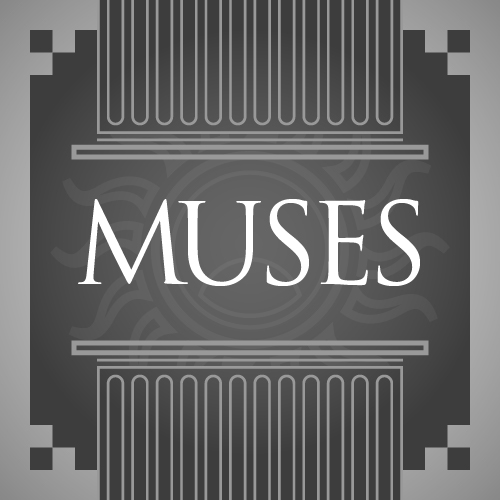
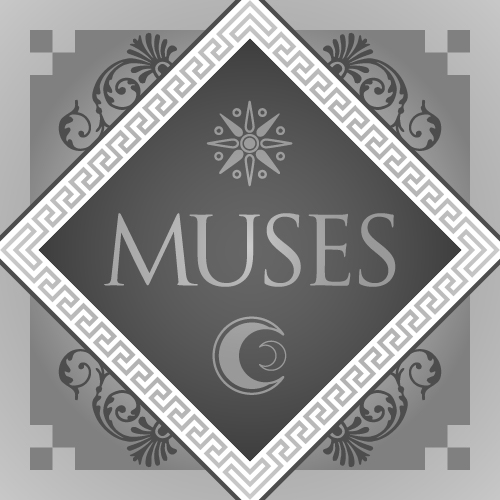
Make Muses announcement

diff --git a/css/eye4styles.css b/css/eye4styles.css
@@ -49,7 +49,18 @@ body {
   font-family: 'IBM Plex Sans', sans-serif;
   text-rendering: optimizeLegibility; }
 
-.headerWrap, .gameShowcaseWrapper, .announcementWrap, .newsletterWrap, .inDevelopmentWrap, .inTheLabWrap, .aboutWrap, .devShowcaseWrap, .textShowcaseWrap, .videoShowcaseWrap, .labsIntroWrap, .labsShowcaseWrap {
+.sr-only {
+  position: absolute;
+  width: 1px;
+  height: 1px;
+  padding: 0;
+  margin: -1px;
+  overflow: hidden;
+  clip: rect(0, 0, 0, 0);
+  white-space: nowrap;
+  border: 0; }
+
+.headerWrap, .gameShowcaseWrapper, .announcementWrap, .newsletterWrap, .inDevelopmentWrap, .inTheLabWrap, .aboutWrap, .devShowcaseWrap, .textShowcaseWrap, .videoShowcaseWrap, .breadcrumbWrap, .boxShowcaseWrap, .boxExtrasWrap, .labsIntroWrap, .labsShowcaseWrap {
   display: grid;
   margin: 0 auto;
   max-width: 1160px; }
@@ -68,6 +79,9 @@ body {
 
 .button + .button {
   margin-left: 10px; }
+
+p .button {
+  font-size: 1em; }
 
 .buyButton {
   background-color: white;
@@ -130,6 +144,12 @@ time {
   display: block;
   font-size: 1.6em;
   margin-bottom: .5em; }
+
+.textOnly p {
+  font-size: 1.8em;
+  line-height: 1.7em; }
+  .textOnly p + p {
+    margin-bottom: 30px; }
 
 .header {
   padding: 0 25px;
@@ -215,7 +235,7 @@ time {
   /* display submenu on click */
   .menuIcon + input[type=checkbox]:checked + ol {
     display: block;
-    height: 26em;
+    height: 31em;
     overflow: auto;
     transition: height ease-in-out 300ms; }
   .navList {
@@ -587,6 +607,88 @@ time {
   #filter-by input[type="checkbox"] {
     position: absolute;
     margin-left: -25px; }
+
+.boxShowcase {
+  background-color: #252529;
+  padding: 25px 50px 30px; }
+
+.boxExtras {
+  background-color: #1A1A1A;
+  padding: 25px 50px 30px; }
+
+.breadcrumbs li {
+  color: #BCCAD0;
+  display: inline; }
+  .breadcrumbs li a {
+    color: #29ABE2;
+    text-decoration: none; }
+  .breadcrumbs li + li::before {
+    color: #495252;
+    content: '>';
+    padding: 0 5px; }
+
+.boxShowcaseWrap, .boxExtrasWrap {
+  grid-template-columns: 4fr 1fr 4fr;
+  grid-column-gap: 30px;
+  grid-template-areas: 'main . aside'; }
+  .boxShowcaseWrap main, .boxExtrasWrap main {
+    grid-area: main; }
+  .boxShowcaseWrap aside, .boxExtrasWrap aside {
+    grid-area: aside; }
+
+.boxName {
+  width: 100%;
+  height: auto;
+  fill: white;
+  margin: 30px 0 25px; }
+  .boxName.alaka {
+    fill: green; }
+  .boxName.clair {
+    fill: purple; }
+
+.boxShowcase .gameDetails {
+  margin-bottom: 10px; }
+  .boxShowcase .gameDetails li {
+    display: inline; }
+    .boxShowcase .gameDetails li + li {
+      margin-left: 15px; }
+  .boxShowcase .gameDetails::after {
+    content: '';
+    display: block;
+    border-bottom: 3px solid #495252;
+    margin: 15px 0 25px;
+    height: 3px;
+    width: 100px; }
+
+.boxDetails {
+  position: sticky;
+  text-align: center;
+  top: 20px; }
+
+.boxImg, .extraImg {
+  align-content: center; }
+
+.boxImg {
+  padding-bottom: 30px;
+  margin-bottom: 15px; }
+  .boxImg img {
+    border-radius: 5px;
+    box-shadow: 15px 15px 10px #1A1A1A;
+    max-height: 400px; }
+
+.boxPrice {
+  align-items: center;
+  border-top: 1px solid #495252;
+  display: grid;
+  grid-gap: 20px;
+  grid-template-columns: repeat(2, 1fr);
+  padding-top: 30px; }
+  .boxPrice p {
+    text-align: left; }
+  .boxPrice .buyButton {
+    border-radius: 3px;
+    font-size: 2.4em;
+    padding: 10px 8px; }
 
 .labsIntro {
   background-color: #1A1A1A;

diff --git a/index.html b/index.html
@@ -100,6 +100,7 @@
                             <li class="navLink"><a href="/">Home</a></li>
                             <li class="navLink"><a href="/updates">Newsletter</a></li>
                             <li class="navLink"><a href="/labs">Labs</a></li>
+                            <li class="navLink"><a href="/videos">Videos</a></li>
                             <!--<li><a class="external" href="#">Podcast</a> </li>-->
                             <li class="navLink"><a class="external" href="http://eye4games.tumblr.com/">Blog</a></li>
                             <li class="navLink"><a class="external" href="https://gumroad.com/eye4games">Store</a></li>
@@ -163,16 +164,6 @@
             
         </div><!-- gameShowcase-wrapper -->
     </section>
-    
-    
-    <section class="announcement">
-    	<div class="announcementWrap">
-        	<h2>AwSHUX Convention Appearance</h2>
-        	<h3>October 16–18 | Online</h3>
-            <p>As with many things this year, even the conventions are online now! <a href="https://www.awshux.show/hall5#eye4games">Catch us at AwSHUX</a>, and play demos with us <a href="https://tabletopia.com/games/defense-force-ultra">on Tabletopia</a> where we're showcasing <em>Defense Force Ultra</em>.</p>
-    	</div>
-    </section>
-    
         
     <section class="newsletter">
         <div class="newsletterWrap">
@@ -187,21 +178,21 @@
            
            <div class="textSummary">
                <h2>Latest Free Game</h2>
-                <p>Spring has come according to the calendar, and we've got an Eye4Labs release for you. You can now play <em>Concrete Jungle</em>, where you can experience the thrills of business, animals, and business animals in an RPG perfect for one-shots and short adventures.</p>
-                <p>You can download our fourth release <a href="https://gumroad.com/l/concrete-labs" target="_blank">on Gumroad</a> for free (or whatever you want to pay).</p>
+                <p>Our gift to you this Winter is now available, <em>Muses</em>, and we hope you try it and <a href="https://forms.gle/fQ6webEpdwoUodQj9">send us feedback</a> on your experience.</p>
+                <p>You can download our fifth release <a href="https://gumroad.com/l/muses-labs" target="_blank">on Gumroad</a> for free (or whatever you want to pay).</p>
                 <p><a href="/labs">See All the Labs Releases »</a></p>
            </div>
            <!-- textSummary -->
            <div class="devTileMini oneFourth">
-               <div class="devProgress midProgress">
-                    <img src="images/dev-tile-muses.jpg" alt="" />
+               <div class="devProgress minProgress">
+                    <img src="images/dev-tile-abiogenesis.jpg" alt="" />
                     <span class="statusBadge">In Progress</span>
                </div><!-- devProgress -->
            </div><!-- devTileMini -->
            
            <div class="devTileMini oneFourth">
                <div class="devProgress maxProgress">
-                    <img src="images/dev-tile-concrete.jpg" alt="" />
+                    <img src="images/dev-tile-muses.jpg" alt="" />
                     <span class="statusBadge">Released</span>
                </div><!-- devProgress -->
            </div><!-- devTileMini -->

diff --git a/css/eye4styles.scss b/css/eye4styles.scss
@@ -4,6 +4,7 @@
 
 // Palette
 $mainBlack:#313737;
+$midBlack: lighten($mainBlack,10%);
 $lightBlack: #BCCAD0;
 $darkerBlack: #252529;
 $darkestBlack:#1A1A1A;
@@ -27,6 +28,17 @@ body{
     font-size: 62.5%;
     font-family: 'IBM Plex Sans', sans-serif;
     text-rendering: optimizeLegibility;
+    }
+.sr-only{
+    position: absolute;
+    width: 1px;
+    height: 1px;
+    padding: 0;
+    margin: -1px;
+    overflow: hidden;
+    clip: rect(0,0,0,0);
+    white-space: nowrap;
+    border: 0;
     }
     
 //
@@ -56,6 +68,9 @@ $mainWidth: 1160px;
     }
 .button + .button{
     margin-left: 10px;
+    }
+p .button{
+    font-size: 1em;
     }
 .buyButton{
     background-color: white;
@@ -122,6 +137,13 @@ time{
     display: block;
     font-size: 1.6em;
     margin-bottom: .5em;
+    }
+.textOnly p{
+    font-size: 1.8em;
+    line-height: 1.7em;
+    & + p{
+        margin-bottom: 30px;
+        }
     }
 
 //
@@ -584,6 +606,101 @@ time{
         margin-left: -25px;
         }
     }
+
+//
+//*********************************************************BOX
+.boxShowcase{
+    background-color: $darkerBlack;
+    padding: 25px 50px 30px;
+    }
+.boxExtras{
+    background-color: $darkestBlack;
+    padding: 25px 50px 30px;
+    }
+.breadcrumbWrap{
+    @extend %container;
+    }
+.breadcrumbs li{
+    color: $lightBlack;
+    display: inline;
+    a{
+        color: $mainBlue;
+        text-decoration: none;
+        }
+    & + li::before{
+        color: $midBlack;
+        content:'>';
+        padding: 0 5px;
+        }
+    }
+.boxShowcaseWrap, .boxExtrasWrap{
+    @extend %container;
+    grid-template-columns: 4fr 1fr 4fr;
+    grid-column-gap: 30px;
+    grid-template-areas: 'main . aside';
+    & main{grid-area: main;}
+    & aside{grid-area: aside;}
+    }
+.boxName{
+    width: 100%;
+    height: auto;
+    fill: white;
+    margin: 30px 0 25px;
+    //&.rise{fill:red;}
+    &.alaka{fill:green;}
+    &.clair{fill:purple;}
+    }
+.boxShowcase{
+    .gameDetails{
+        margin-bottom: 10px;
+        li{
+            display: inline;
+            & + li{margin-left: 15px;}
+            }
+        &::after{
+            content: '';
+            display: block;
+            border-bottom: 3px solid $midBlack;
+            margin: 15px 0 25px;
+            height:3px;
+            width: 100px;
+            }
+        }
+    }
+.boxDetails{
+    position: sticky;
+    text-align: center;
+    top: 20px;
+    }
+.boxImg, .extraImg{
+    align-content: center;
+    }
+.boxImg{
+    padding-bottom: 30px;
+    margin-bottom: 15px;
+    img{
+        border-radius: 5px;
+        box-shadow: 15px 15px 10px $darkestBlack;
+        max-height: 400px;
+        }
+    }
+.boxPrice{
+    align-items: center;
+    border-top: 1px solid $midBlack;
+    display: grid;
+    grid-gap: 20px;
+    grid-template-columns: repeat(2,1fr);
+    padding-top: 30px;
+    p{
+        text-align: left;
+        }
+    .buyButton{
+        border-radius: 3px;
+        font-size: 2.4em;
+        padding: 10px 8px;
+        }
+    }
+
 
 //
 //*****************************************************EYE4LABS

diff --git a/labs/index.html b/labs/index.html
@@ -102,6 +102,7 @@
                             <li class="navLink"><a href="/">Home</a></li>
                             <li class="navLink"><a href="/updates">Newsletter</a></li>
                             <li class="navLink  active labs"><a href="/labs">Labs</a></li>
+                            <li class="navLink"><a href="/videos">Videos</a></li>
                             <!--<li><a class="external" href="#">Podcast</a> </li>-->
                             <li class="navLink"><a class="external" href="http://eye4games.tumblr.com/">Blog</a></li>
                             <li class="navLink"><a class="external" href="https://gumroad.com/eye4games">Store</a></li>
@@ -129,6 +130,20 @@
         <div class="labsShowcaseYellow preview">
             <div class="labsShowcaseWrap">
                 <h1><span>Released Labs</span></h1>
+                
+                <div class="labTile">
+                    <div class="gameImage">
+                        <img src="../images/dev-tile-muses.jpg" alt="Muses Image" />
+                        <a href="https://gumroad.com/l/muses-labs" target="_blank" class="button tryButton">Try Beta</a>
+                    </div><!-- gameImage -->
+                    <div class="gameData">
+                        <time>Winter 2020</time>
+                        <h3>Muses</h3>
+                        <p>A light puzzle game of artists praying to the Muses for inspiration.</p>
+                        <h4>Quick Pitch</h4>
+                        <p>Voting for simultaneous action to show devotion to Muses.</p>
+                    </div><!-- gameInfo -->
+                </div><!-- labTile -->
                 
                 <div class="labTile">
                     <div class="gameImage">

diff --git a/development/index.html b/development/index.html
@@ -102,6 +102,7 @@
                             <li class="navLink"><a href="/">Home</a></li>
                             <li class="navLink"><a href="/updates">Newsletter</a></li>
                             <li class="navLink labs"><a href="/labs">Labs</a></li>
+                            <li class="navLink"><a href="/videos">Videos</a></li>
                             <!--<li><a class="external" href="#">Podcast</a> </li>-->
                             <li class="navLink"><a class="external" href="http://eye4games.tumblr.com/">Blog</a></li>
                             <li class="navLink"><a class="external" href="https://gumroad.com/eye4games">Store</a></li>

diff --git a/videos/index.html b/videos/index.html
@@ -102,6 +102,7 @@
                             <li class="navLink"><a href="../">Home</a></li>
                             <li class="navLink"><a href="../updates">Newsletter</a></li>
                             <li class="navLink labs"><a href="../labs">Labs</a></li>
+                            <li class="navLink"><a href="../">Videos</a></li>
                             <!--<li><a class="external" href="#">Podcast</a> </li>-->
                             <li class="navLink"><a class="external" href="http://eye4games.tumblr.com/">Blog</a></li>
                             <!-- <li class="navLink"><a href="/" class="external">Videos</a></li> -->

diff --git a/css/_menu.scss b/css/_menu.scss
@@ -76,7 +76,7 @@
             {
             display: block;
             // number of links * 5 + 1
-            height: 5*5em+1em;
+            height: 6*5em+1em;
             overflow: auto;  
             transition: height ease-in-out 300ms;
             }
